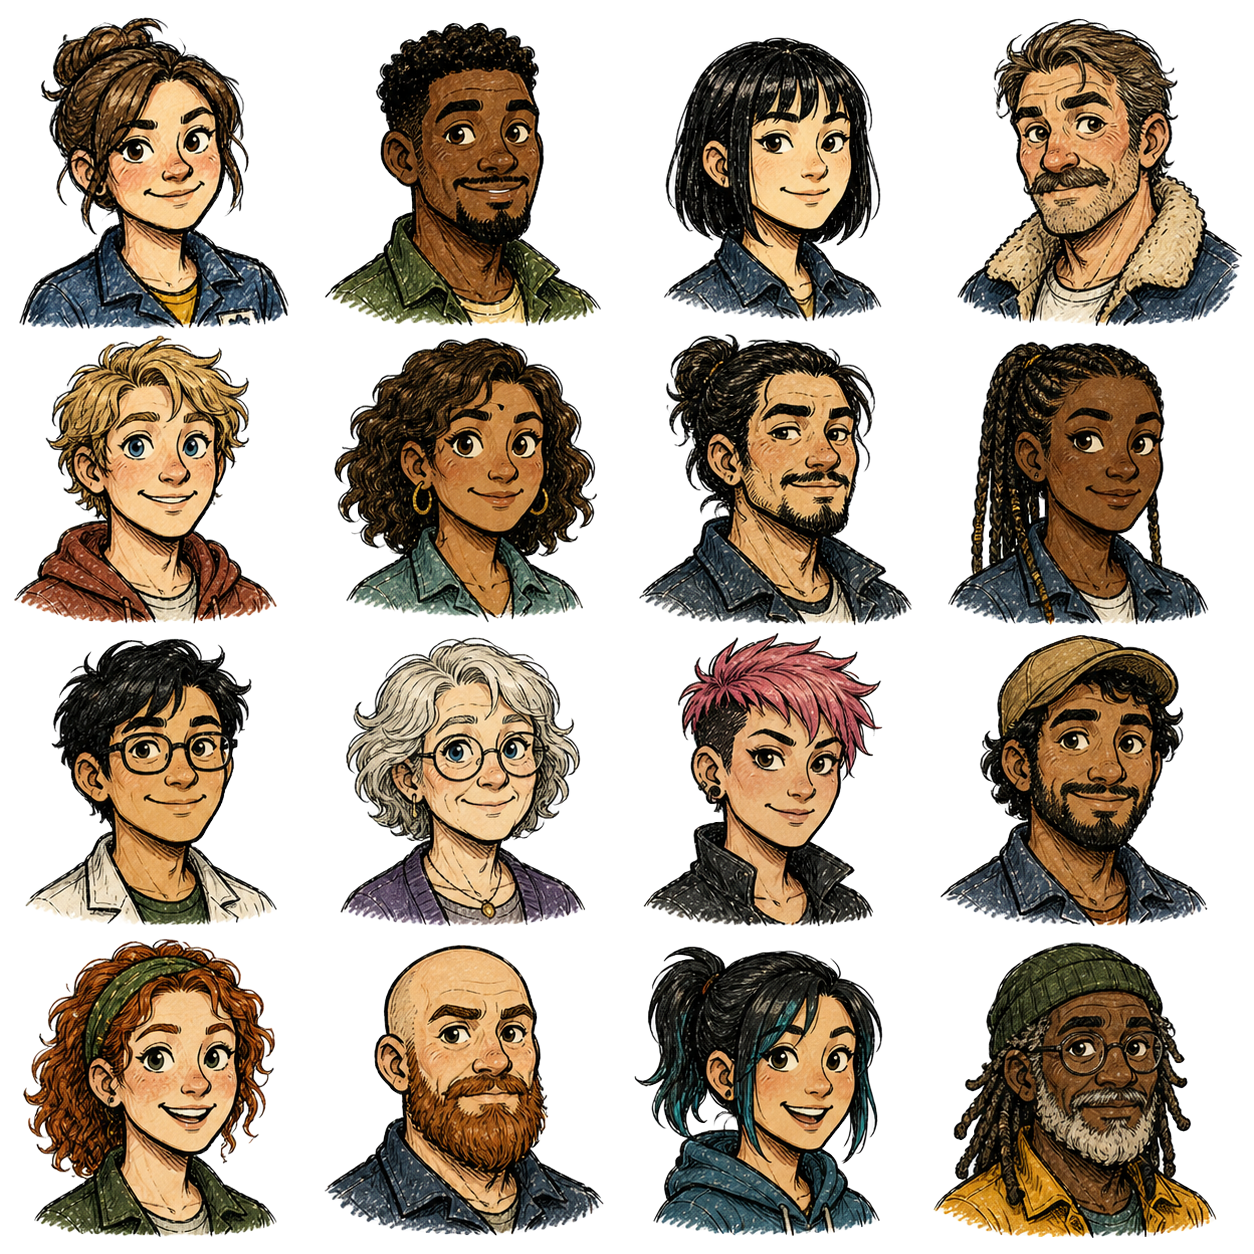
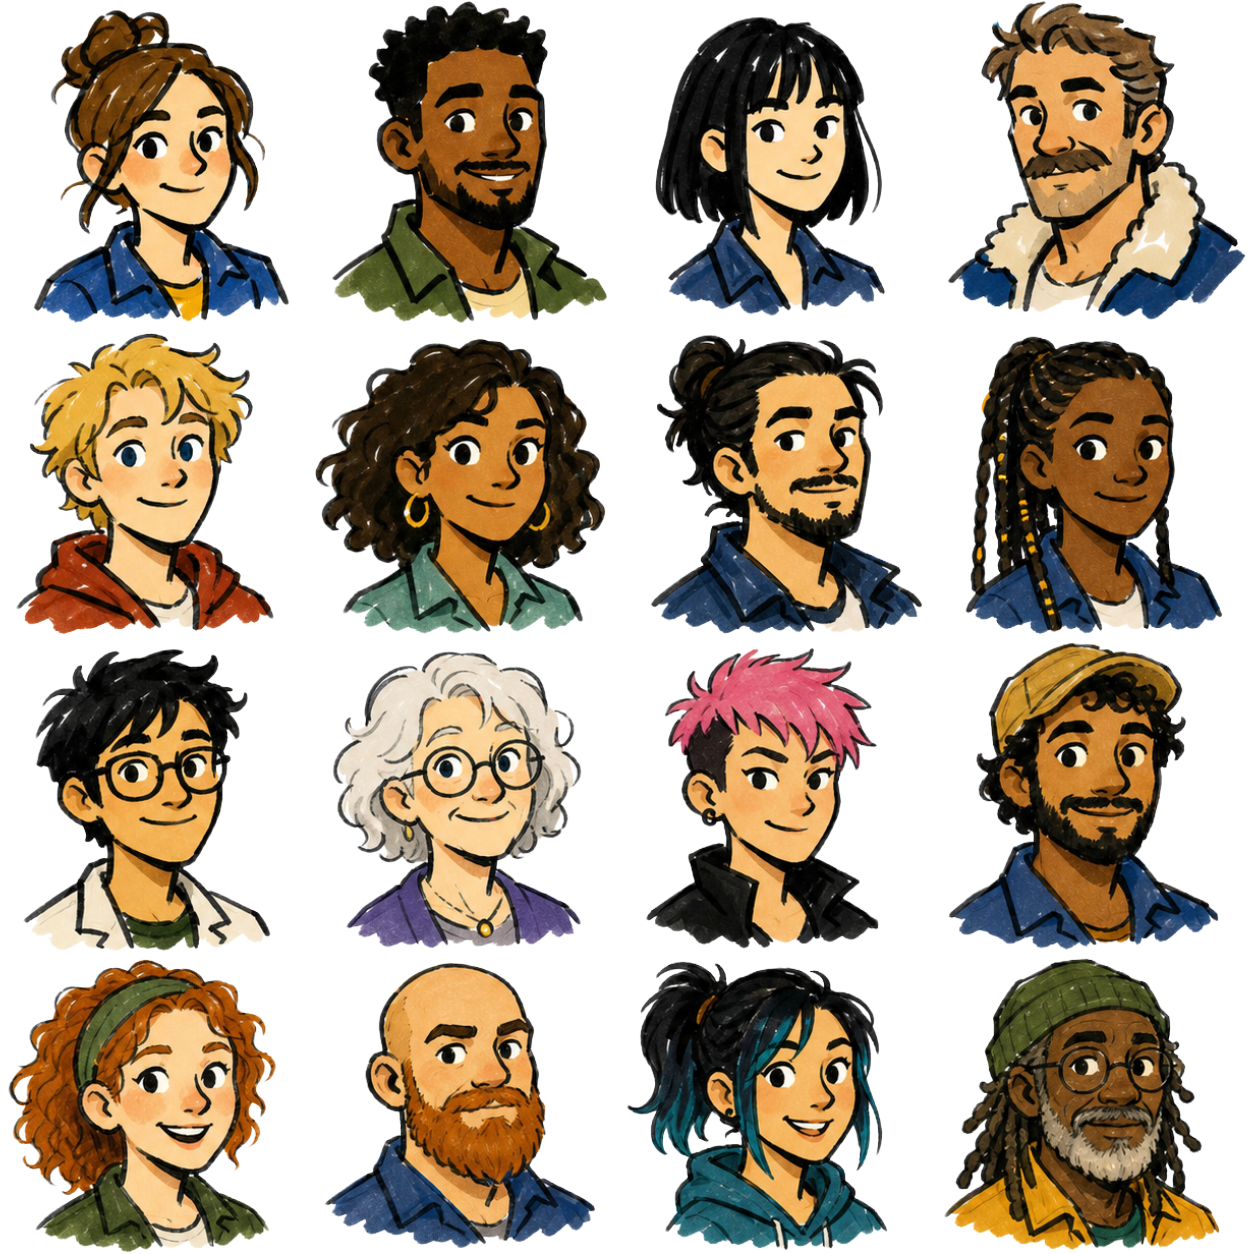
feat: polish deck card styling with refined covers and cleaner titles

diff --git a/src/App.css b/src/App.css
@@ -2290,29 +2290,39 @@
 }
 
 .deck-card {
+  --deck-cover-light: hsl(var(--card-hue) 43% 33%);
+  --deck-cover: hsl(var(--card-hue) 45% 29%);
+  --deck-cover-dark: hsl(var(--card-hue) 46% 25%);
+  --deck-letter: color-mix(in srgb, var(--card-accent) 34%, #f4d9a4);
+  --deck-edge: color-mix(in srgb, var(--deck-cover-light) 88%, #fff8e8);
+  --deck-line: color-mix(in srgb, var(--deck-letter) 74%, var(--deck-cover-light));
+  --deck-ink: #151916;
+
   position: absolute;
   z-index: 10;
-  display: flex;
-  flex-direction: column;
-  align-items: center;
-  justify-content: center;
-  gap: 8px;
+  display: grid;
+  place-items: center;
   isolation: isolate;
   width: var(--card-width);
   height: var(--card-height);
-  padding: 13px 10px 11px;
-  border: clamp(3px, 0.35vw, 5px) solid #11131a;
-  border-radius: 12px;
-  color: #fff8e8;
+  padding: clamp(15px, 1.45vw, 22px) clamp(11px, 1.05vw, 16px);
+  border: 0;
+  border-radius: clamp(18px, 1.5vw, 28px);
+  color: var(--deck-letter);
   background:
-    repeating-linear-gradient(90deg, rgba(255, 255, 255, 0.06) 0 1px, transparent 1px 5px),
-    repeating-linear-gradient(0deg, rgba(0, 0, 0, 0.08) 0 1px, transparent 1px 6px),
-    linear-gradient(145deg, hsl(var(--card-hue) 50% 34%), hsl(var(--card-hue) 55% 22%));
+    radial-gradient(circle at 22% 12%, rgba(255, 255, 255, 0.11), transparent 33%),
+    radial-gradient(circle at 70% 86%, rgba(0, 0, 0, 0.22), transparent 46%),
+    repeating-linear-gradient(90deg, rgba(255, 255, 255, 0.055) 0 1px, transparent 1px 3px),
+    repeating-linear-gradient(0deg, rgba(0, 0, 0, 0.085) 0 1px, transparent 1px 4px),
+    repeating-linear-gradient(90deg, transparent 0 8px, rgba(255, 255, 255, 0.026) 8px 9px, transparent 9px 16px),
+    linear-gradient(145deg, var(--deck-cover-light), var(--deck-cover) 49%, var(--deck-cover-dark));
   box-shadow:
-    6px -6px 0 rgba(255, 255, 255, 0.09),
-    12px -12px 0 rgba(255, 255, 255, 0.04),
-    inset 0 0 0 2px rgba(255, 255, 255, 0.08),
-    0 18px 16px rgba(0, 0, 0, 0.42);
+    5px -5px 0 rgba(255, 255, 255, 0.08),
+    10px -10px 0 rgba(255, 255, 255, 0.035),
+    inset 0 0 0 1px var(--deck-edge),
+    inset 0 11px 18px rgba(255, 255, 255, 0.045),
+    inset 0 -18px 28px rgba(0, 0, 0, 0.18),
+    0 19px 18px rgba(0, 0, 0, 0.46);
   cursor: grab;
   touch-action: none;
   transition:
@@ -2323,10 +2333,13 @@
   &.is-manual-draw:hover {
     transform: translateY(-6px) rotate(1deg);
     box-shadow:
-      7px -7px 0 rgba(255, 255, 255, 0.11),
-      14px -14px 0 rgba(255, 255, 255, 0.05),
-      0 24px 22px rgba(0, 0, 0, 0.5),
-      0 0 18px color-mix(in srgb, var(--card-accent) 58%, transparent);
+      6px -6px 0 rgba(255, 255, 255, 0.1),
+      12px -12px 0 rgba(255, 255, 255, 0.045),
+      inset 0 0 0 1px var(--deck-edge),
+      inset 0 11px 18px rgba(255, 255, 255, 0.05),
+      inset 0 -18px 28px rgba(0, 0, 0, 0.18),
+      0 25px 23px rgba(0, 0, 0, 0.52),
+      0 0 18px color-mix(in srgb, var(--card-accent) 52%, transparent);
   }
 
   &.is-automatic-reward {
@@ -2346,10 +2359,13 @@
     transform: translateY(-2px) scale(1.03);
     will-change: transform;
     box-shadow:
-      8px -8px 0 rgba(255, 255, 255, 0.11),
-      16px -16px 0 rgba(255, 255, 255, 0.05),
-      0 28px 24px rgba(0, 0, 0, 0.54),
-      0 0 20px color-mix(in srgb, var(--card-accent) 62%, transparent);
+      7px -7px 0 rgba(255, 255, 255, 0.1),
+      14px -14px 0 rgba(255, 255, 255, 0.045),
+      inset 0 0 0 1px var(--deck-edge),
+      inset 0 11px 18px rgba(255, 255, 255, 0.05),
+      inset 0 -18px 28px rgba(0, 0, 0, 0.18),
+      0 29px 25px rgba(0, 0, 0, 0.56),
+      0 0 20px color-mix(in srgb, var(--card-accent) 58%, transparent);
   }
 
   &.is-drop-target::before {
@@ -2373,46 +2389,107 @@
 
   &.is-drop-target {
     box-shadow:
-      6px -6px 0 rgba(255, 255, 255, 0.09),
-      12px -12px 0 rgba(255, 255, 255, 0.04),
+      5px -5px 0 rgba(255, 255, 255, 0.08),
+      10px -10px 0 rgba(255, 255, 255, 0.035),
+      inset 0 0 0 1px var(--deck-edge),
       inset 0 0 0 3px color-mix(in srgb, var(--card-accent) 72%, rgba(255, 255, 255, 0.1)),
-      0 18px 16px rgba(0, 0, 0, 0.42),
+      inset 0 11px 18px rgba(255, 255, 255, 0.045),
+      inset 0 -18px 28px rgba(0, 0, 0, 0.18),
+      0 19px 18px rgba(0, 0, 0, 0.46),
       0 0 22px color-mix(in srgb, var(--card-accent) 50%, transparent);
   }
 }
 
 .deck-badge {
   position: absolute;
-  top: -12px;
-  right: -12px;
+  top: clamp(7px, 0.75vw, 11px);
+  right: clamp(7px, 0.75vw, 11px);
   z-index: 2;
   display: grid;
-  min-width: 32px;
-  height: 32px;
+  min-width: clamp(24px, 2.2vw, 32px);
+  height: clamp(24px, 2.2vw, 32px);
   place-items: center;
-  border: 3px solid #11131a;
+  border: 1.5px solid color-mix(in srgb, var(--deck-line) 82%, transparent);
   border-radius: 999px;
-  color: #080a12;
-  background: var(--card-accent);
-  box-shadow: 0 5px 0 rgba(0, 0, 0, 0.24);
-  font-size: 15px;
+  color: var(--deck-ink);
+  background:
+    radial-gradient(circle at 34% 24%, rgba(255, 255, 255, 0.48), transparent 42%),
+    color-mix(in srgb, var(--deck-letter) 86%, #fff8e8);
+  box-shadow:
+    inset 0 0 0 1px rgba(255, 255, 255, 0.18),
+    0 3px 0 rgba(0, 0, 0, 0.24);
+  font-family: ui-sans-serif, system-ui, -apple-system, BlinkMacSystemFont, 'Segoe UI', sans-serif;
+  font-size: clamp(12px, 1vw, 15px);
   font-weight: 950;
+}
+
+.deck-title-lockup {
+  position: relative;
+  z-index: 1;
+  display: grid;
+  width: min(86%, 142px);
+  place-items: center;
+  gap: clamp(7px, 0.8vw, 12px);
+  color: var(--deck-letter);
 }
 
 .deck-title {
   position: relative;
   z-index: 1;
   max-width: 100%;
-  color: #fff8e8;
-  font-size: clamp(11px, 1vw, 14px);
+  min-width: 0;
+  overflow-wrap: anywhere;
+  color: currentColor;
+  font-family: ui-sans-serif, system-ui, -apple-system, BlinkMacSystemFont, 'Segoe UI', sans-serif;
+  font-size: clamp(10px, 1.08vw, 17px);
   font-weight: 950;
-  letter-spacing: 0.06em;
-  line-height: 1;
+  letter-spacing: 0.16em;
+  line-height: 1.18;
   text-align: center;
   text-shadow:
-    0 2px 0 rgba(17, 19, 26, 0.44),
-    0 0 12px color-mix(in srgb, var(--card-accent) 42%, transparent);
+    0 -2px 0 color-mix(in srgb, var(--deck-ink) 58%, transparent),
+    0 2px 0 color-mix(in srgb, var(--deck-edge) 62%, transparent);
+  text-wrap: balance;
   text-transform: uppercase;
+  white-space: normal;
+}
+
+.deck-card .deck-mark-icon {
+  width: clamp(36px, 3.8vw, 58px);
+  border: 0;
+  border-radius: 0;
+  background: transparent;
+  box-shadow: none;
+  color: currentColor;
+  filter:
+    drop-shadow(0 -2px 0 color-mix(in srgb, var(--deck-ink) 50%, transparent))
+    drop-shadow(0 2px 0 color-mix(in srgb, var(--deck-edge) 58%, transparent));
+  transform: none;
+
+  svg {
+    width: 100%;
+    height: 100%;
+  }
+
+  .deck-icon-fill,
+  .deck-icon-cutout,
+  .deck-icon-line {
+    stroke: currentColor;
+    stroke-width: 2.15;
+  }
+
+  .deck-icon-fill,
+  .deck-icon-dot {
+    fill: currentColor;
+  }
+
+  .deck-icon-cutout {
+    fill: color-mix(in srgb, var(--deck-cover) 82%, #050713);
+  }
+
+  .deck-icon-line {
+    fill: none;
+  }
 }
 
 .deck-icon {

diff --git a/src/components/DeckCard.tsx b/src/components/DeckCard.tsx
@@ -35,6 +35,7 @@ export function DeckCard({
   onKeyDown,
 }: DeckCardProps) {
   const canDraw = canManuallyDrawDeck(deck)
+  const displayTitle = getDeckDisplayTitle(deck.title)
   const actionLabel = canDraw
     ? 'Click to draw or drag to move.'
     : 'Automatic refill or rewards only; drag to move.'
@@ -59,13 +60,19 @@ export function DeckCard({
       }
       onPointerDown={(event) => onPointerDown(event, deck.id)}
       onKeyDown={(event) => onKeyDown(event, deck.id)}
-      aria-label={`${deck.title}. ${deck.cards.length} cards left. ${actionLabel}`}
+      aria-label={`${displayTitle}. ${deck.cards.length} cards left. ${actionLabel}`}
     >
       <span className="deck-badge" aria-hidden="true">
         {deck.cards.length}
       </span>
-      <DeckIcon kind={deck.icon} />
-      <span className="deck-title">{deck.title}</span>
+      <span className="deck-title-lockup">
+        <DeckIcon kind={deck.icon} className="deck-mark-icon" />
+        <span className="deck-title">{displayTitle}</span>
+      </span>
     </button>
   )
+}
+
+function getDeckDisplayTitle(title: string) {
+  return title.replace(/\s+Deck$/i, '')
 }
